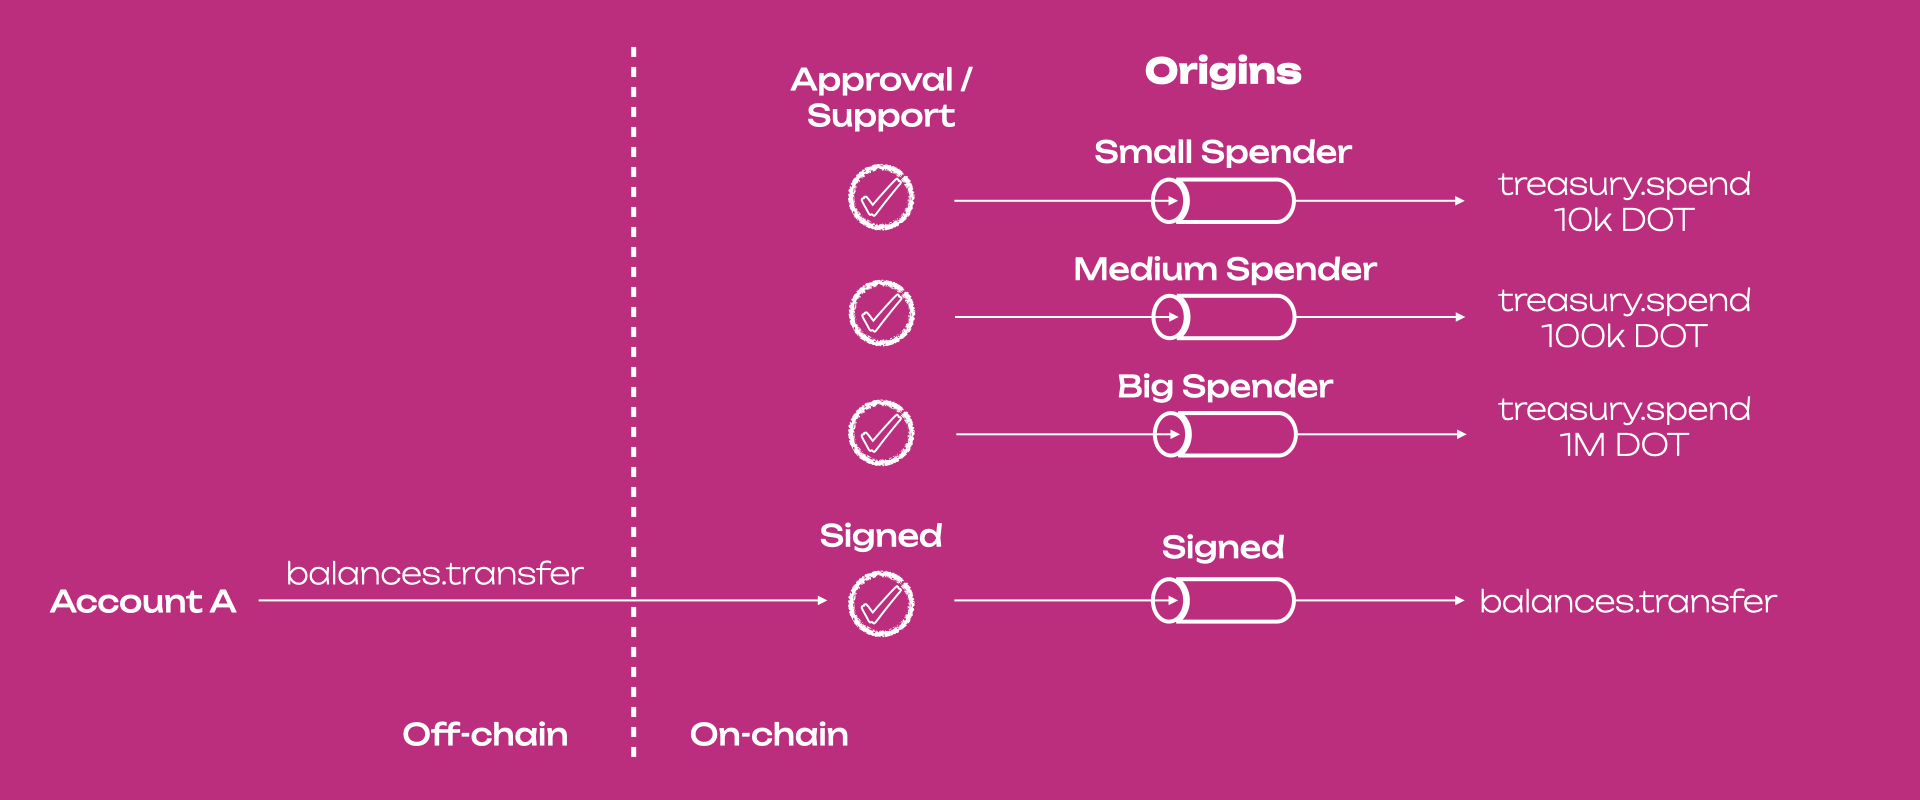
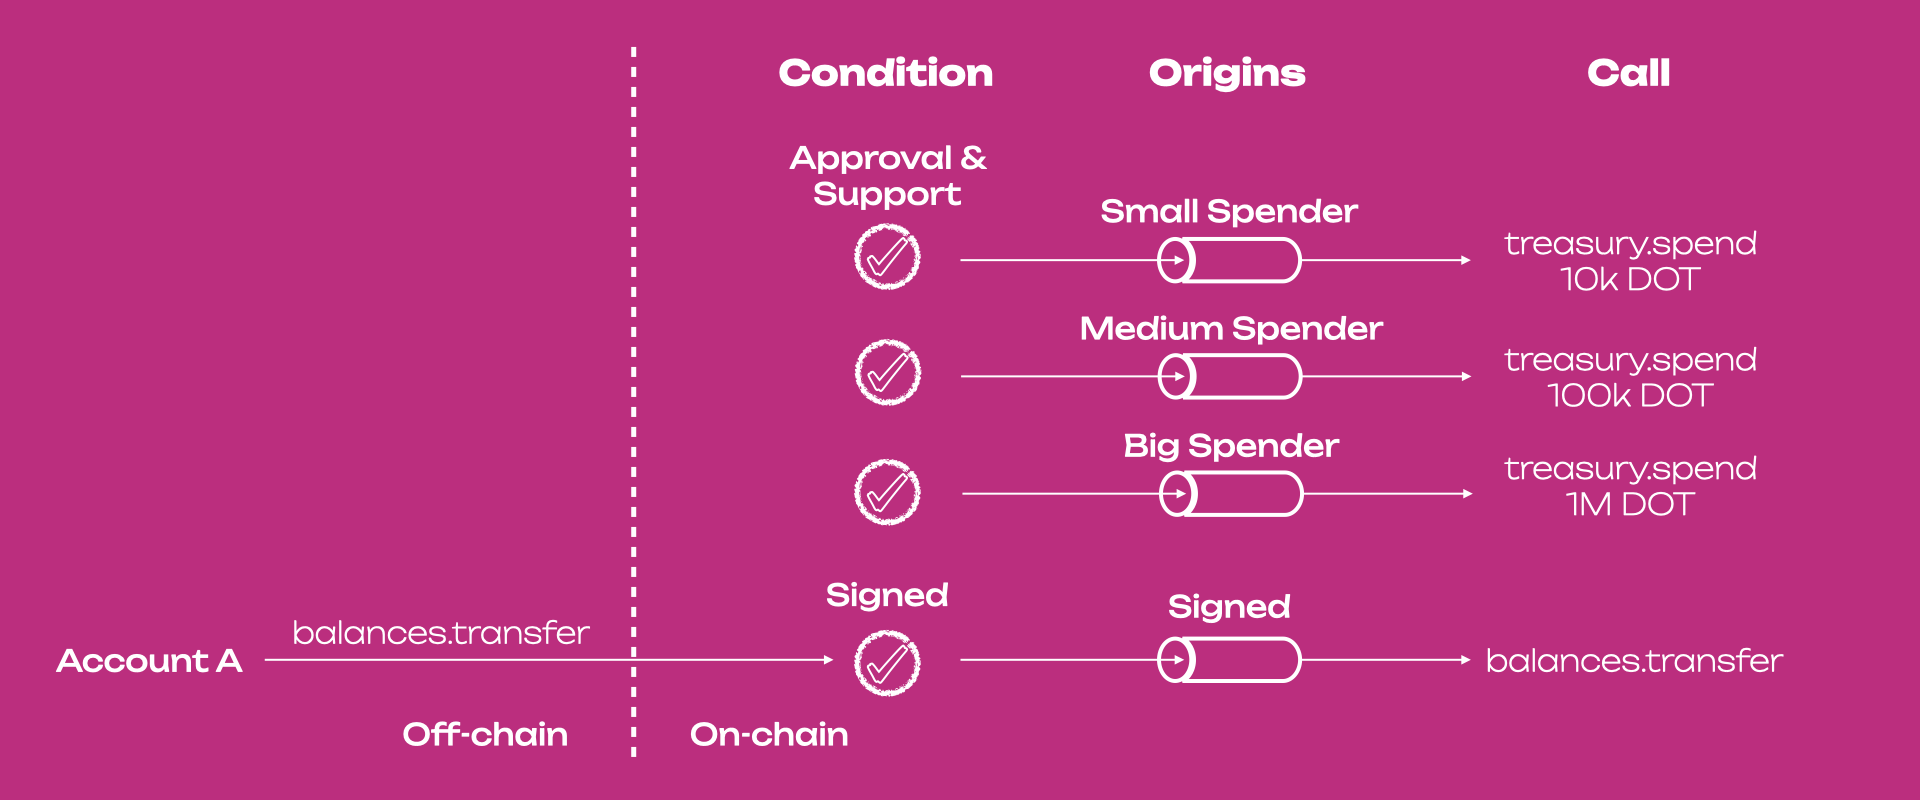
edited figure + added description

diff --git a/docs/learn/learn-account-abstraction.md b/docs/learn/learn-account-abstraction.md
@@ -67,12 +67,19 @@ Neither of those origins is subservient to the concept of an account or assume a
 or associated data. Custom origins can be created while designing your chain using the Substrate
 (which is part of the [Polkadot SDK](https://github.com/paritytech/polkadot-sdk)).
 
+The figure below shows the {{ polkadot: Polkadot :polkadot }}{{ kusama: Kusama :kusama }}'s origin
+abstraction. Accounts happen to be just one variant (or corner case) of Substrate's FRAME possible
+origins, the `frame_system::RawOrigin::Signed`. OpenGov origins function in a way that, if
+conditions (approval and support) are met and a proposal passes, the appropriate
+[origin is then associated with the scheduled call](https://github.com/paritytech/polkadot-sdk/blob/1835c091c42456e8df3ecbf0a94b7b88c395f623/substrate/frame/referenda/src/lib.rs#L884).
+Those origins are caller-personas that do not have any entity behind them, and do not hold any state
+on chain.
+
 ![origin-abstraction](../assets/origin-abstraction.png)
 
-Accounts happen to be just one variant (or corner case) of Substrate's FRAME possible origins, the
-`frame_system::RawOrigin::Signed`. In Substrate, the concept of account is completely deprioritized.
-Substrate itself remains indifferent to an account's balance and nonce. While FRAME can support
-their presence, it fundamentally does not need to rely on them.
+In Substrate, the concept of account is completely deprioritized. Substrate itself remains
+indifferent to an account's balance and nonce. While FRAME can support their presence, it
+fundamentally does not need to rely on them.
 
 The [Cross-Consensus Messaging (XCM)](./learn-xcm-index) format can take advantage of origin
 abstraction for cross-consensus communications by specifying the context for a particular message.
